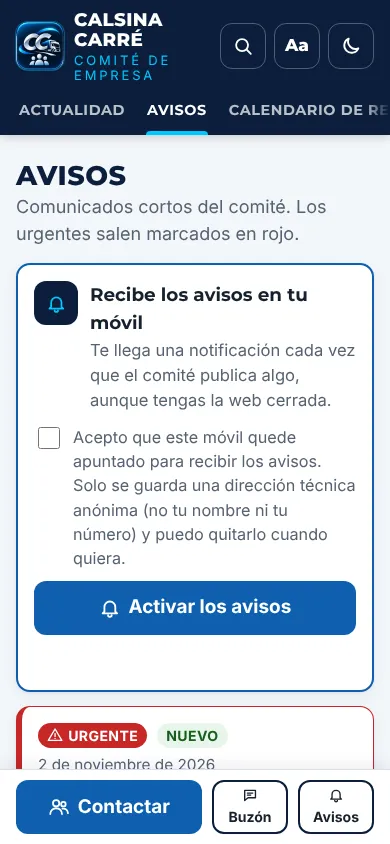
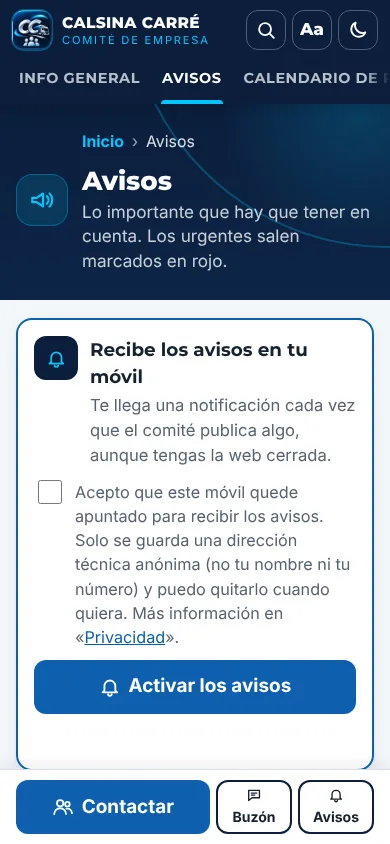
v25: README, CLAUDE.md y guía al día («Lo pendiente» y capturas nuevas)
Claude-Session: https://claude.ai/code/session_011SdsLKzTmFSpwPz2orkjvZ

diff --git a/guia.html b/guia.html
@@ -9,8 +9,8 @@
 <title>Guía del panel · Comité Calsina Carré</title>
 <meta name="theme-color" content="#0B1E3C">
 <link rel="icon" href="img/favicon-32.png" sizes="32x32" type="image/png">
-<link rel="stylesheet" href="fuentes.css?v=24">
-<link rel="stylesheet" href="styles.css?v=24">
+<link rel="stylesheet" href="fuentes.css?v=25">
+<link rel="stylesheet" href="styles.css?v=25">
 <style>
   body { padding-bottom: 40px; }
   .guia { max-width: 820px; margin: 0 auto; padding: 8px 16px 40px; }
@@ -77,7 +77,7 @@
 
   <section id="g-inicio">
     <h2><span class="num">2</span>La pantalla de Inicio</h2>
-    <p>Es lo primero que ves. Arriba, botones grandes con lo que más se hace: publicar un aviso, añadir una reunión, subir un acta… Debajo: las reuniones de los próximos 14 días, los avisos programados, cuántos móviles tienen los avisos activados y lo último que has publicado (tócalo para cambiarlo).</p>
+    <p>Es lo primero que ves. Arriba del todo, la línea <b>«Lo pendiente»</b> te dice lo que pide atención: mensajes del buzón sin leer, reuniones que ya pasaron y no tienen acta, avisos que se publican solos hoy y la reunión de mañana. Tócalo y vas directo. Si no hay nada, pone «Está todo al día». Debajo, botones grandes con lo que más se hace: publicar un aviso, añadir una reunión, subir un acta… Debajo: las reuniones de los próximos 14 días, los avisos programados, cuántos móviles tienen los avisos activados y lo último que has publicado (tócalo para cambiarlo).</p>
     <ul>
       <li><b>En el ordenador</b>, el menú está a la izquierda.</li>
       <li><b>En el móvil</b>, el menú está abajo (Inicio, Avisos, Reuniones, Actas y <b>Más</b> para el resto), y el botón azul <b>«+ Nuevo»</b> sirve para publicar.</li>

diff --git a/CLAUDE.md b/CLAUDE.md
@@ -9,7 +9,7 @@ La gestiona desde el panel el padre de Lorena (usuario GitHub `mariancracana77-S
 
 - Web: https://mariancracana77-ssccoo.github.io/Comite-calsina-carre/ (GitHub Pages desde `main`, raíz)
 - Panel: `admin.html` (email + contraseña de Supabase)
-- Versión actual: **24**
+- Versión actual: **25**
 - **Nombre** (lo pidieron Lorena y su padre el 9/11/2026, al volver a la cuenta de siempre): se ve «Calsina Carré» en títulos, cabecera, pie, portada (también en el camión), manifest y cartel, como en la v20. Desde la v23 el camión de la portada va **sin** nombre (se veía borroso; lo pidió Lorena el 9/11/2026): imágenes de antes de la petición n.º 7. No volver a ponerle texto a la imagen. La v21 sin nombres quedó solo en local (rama `limpio`).
 
 ## Reglas (las mismas que en CCOO)
@@ -81,6 +81,7 @@ El padre pidió mostrar lo que tiene la empresa (camión, toro, transpaleta, dis
 - `pruebas/`: `mock-supabase.js` (datos de prueba en memoria; `localStorage prueba-sesion = 1` entra al panel; ganchos `window.__PRE`, `__TARDA`, `__FALLA`, `__PUSH`), `humo.cjs` (puerto `PUERTO`, 8790), `panel.cjs` (8794) y `sw.cjs` (service worker sobre una copia, 8795). Con varios agentes a la vez, cada uno con su puerto.
 - **v23, revisión a fondo (tanda 3, 10/11/2026)**. Web: `diaMadrid`, `sinAcentos`, `textoHTML(t, {enlaces:false})` en comun.js; `R.abrePlegable` y «Actualizado el…» (`.actualizado`) en render.js; app.js pinta primero `comite-copia` y luego la red (`ESPERA_DATOS` 12 s, banda de red lenta, «Reintentar»), enlaces a cosas borradas abren la lista con `.aviso-falta`, anclas `#preguntas`/`#pregunta-N`, petición n.º 10 en `preparaPush`; sw.js: lo versionado/`img`/`fuentes`/`lib` sale de caché, lo demás a la red con 4 s; **OJO: `lib/supabase.js` no lleva `?v=`: al actualizarlo, cambiarle el nombre o ponerle `?v=`**; licencia en `lib/LICENCIA-supabase-js.txt`. Panel: `bloqueaPie`/`conBoton` (sin doble toque), `noCambio`/`motivoNoCambio`/`sesionCaducada` (nunca un «hecho» falso; `update`/`delete` con `.select("id")`), `haySinGuardar`/`beforeunload`/`popstate`, borrador `comite-adm-borrador-<tabla>-<id|nuevo>`, «Deshacer» (`avisa(txt, mal, ["Deshacer", fn])`, `enPapelera`, `deshacerCambio`), `PLANTILLAS` (texto entre corchetes; no deja publicar si queda `[…]`), `limpiaFoto` (canvas: sin EXIF/GPS, 2000 px), `TIPO_EXT` (contentType por extensión; el cierre 3 de Supabase debe usar la misma lista), «Borrar para siempre» en la Papelera (necesita la política de borrado en `papelera`; sin ella, el panel dice que no se ha podido), `.hola-dato.pendiente` (no usar la clase `aviso` en el panel: choca con `.aviso::after` de styles.css), «Nuevo» oculto donde no se crea nada. Lo de GUSTO de la auditoría visual (scratchpad de «Comité», `visual/propuesta.md`): Lorena eligió el 10/11/2026 lo de la v24; el resto (Inicio del panel, accesos en 2 columnas, etc.) no se hace.
 - **v24 (lo eligió Lorena el 10/11/2026, auditoría visual)**: portada del móvil con el bloque azul más bajo, los dos botones («Ver los avisos» y «Buzón anónimo») y lo urgente justo debajo, antes de los accesos: `#urgente-movil` en `index.html` (app.js pinta el mismo aviso en `#urgente` y `#urgente-movil`; el CSS enseña `#urgente-movil` por debajo de 760 px y `#urgente` en la columna de la derecha por encima; vacío = sin hueco). Editor de avisos: `urgente` y `destacar_dia` con `grupo: "importancia"` → recuadro `fieldset.grupo-campos` «¿Cómo de importante es?» (`GRUPOS_CAMPOS`/`camposHTML` en admin.js; opción `explica` en los campos «si»); se guardan igual. Listas del panel: `.cab-seccion .titulo-vista` sin mayúsculas, explicación `#ayuda-lista.plegada` (2 líneas) con botón «Cómo funciona» (`data-mas-info`, solo si no cabe) y en avisos `R.senal` pequeña (`.mini-senal`, sin luz). Esquinas: `--r-s` 8, `--r-m` 12, `--r-l` 16 (`--radio` = `--r-l`). `R.reunion`: fecha y título en `.reunion-cab`, el resto a todo el ancho. En oscuro, `.etq.rojo` y `.etq.nuevo` con fondo al 18 %. El Inicio del panel no se tocó (lo dijo Lorena).
+- **v25 (lo pidió Lorena el 10/11/2026: ideas de mejora, «mientras se vea lo del camión y carretilla, mejóralo y ya»)**: todo lo del PC va en `@media (min-width: 1000px)` y con `.web` (clase del `<body>` de `index.html`; el panel lleva `.panel` y no cambia); `esPC` en app.js para lo que se pinta distinto. PC: portada tipo periódico sin iconos decorativos (`#v-actualidad .ico` oculto; la señal de los avisos sí), bloque azul con el camión y la carretilla en grande y sin botones, `#portada-lead` (aviso urgente o destacado hoy; si no, el último del mes) a lo ancho, anuncios en 2 columnas con «Leer más»/«Compartir» como enlaces de texto, `#agenda` «Próximas reuniones» en la columna derecha (`#proxima`, `#urgente`, `.accesos`, `.contacto-card`, `.hero-btns`, `.barra-fija` y `.legal-nav` ocultos en el PC), buscador escrito `#cab-busca` (en el PC no sale la lupa), actas y documentos en tabla (`tablaHTML`/`filaTabla`, fila de detalle con la tarjeta de render.js que se abre con «Ver»; `abreFila` en los enlaces directos; orden por fecha; `#buscar-docs` solo PC), banda `.banda-contacto` (buzón + miembros; se esconde la mitad del apartado en el que estás con `body[data-vista]`), pie corto con mapa y el correo (`.solo-movil`/`.solo-pc`; secciones propias en `#pie-secciones`). Regla: en el PC, fuera del menú y de la miga, ningún enlace se repite en la misma pantalla (lo mira humo.cjs). Todas las medidas: miga de pan `ponMiga`/`migaHTML` (`nav.miga` en cada `.cab-apartado`; en secciones, `#seccion-miga`), avisos urgentes (`urgenteAhora`: destacado hoy o urgente de 14 días) arriba y los demás en `.avisos-normales` compacta con la fecha delante, barra de color por tipo (`--barra` en `.tarjeta.aviso/.reunion/.acta`, rayas en `.documento`), botones de 48 px en la web, oscuro más profundo (`--fondo #08142a`, `--tarjeta #0f2038`, borde celeste suave) y sin `.senal-brillo` en el triángulo en oscuro. Móvil: nada cambia de sitio; `#reunion-arriba` (la próxima reunión arriba del calendario, por debajo de 900 px). Panel: línea `#lo-pendiente` arriba del Inicio (buzón sin leer, reuniones de los últimos 60 días sin acta de esa fecha, avisos programados para hoy, reunión de mañana); el resto del Inicio igual. **Pendiente**: «Caduca el…» de los avisos y «Avisos pasados» (necesita una columna nueva en Supabase: lo decide Lorena).
 
 ## Al publicar una versión nueva
 Cambiar el número en: `?v=N` de los HTML, `VERSION_WEB` en `comun.js` y `VERSION` en `sw.js`. Añadir línea en «Versiones» del README. Pasar antes `pruebas/humo.cjs`, `pruebas/panel.cjs` y `pruebas/sw.cjs` (en verde) y repasar la lista del vault «Comité/Guías/Lista antes de publicar».

diff --git a/README.md b/README.md
@@ -99,6 +99,7 @@ NODE_PATH=$(npm root -g) node pruebas/sw.cjs
 - **v17**: calendario con botón «Mes / Año entero» (12 meses en pequeño; al tocar un mes se abre). Festivos laborales oficiales de Cataluña de 2026 y 2027 sacados del BOE (BOE-A-2025-21667 y BOE-A-2026-21254); los de España con la bandera española. Reuniones con la empresa en azul y las del comité en verde (petición n.º 6 del padre). También: panel del padre más fácil (lo pidió Lorena): sus peticiones en dos bloques, «Lo tuyo» (Te toca a ti / Esperando) arriba y «Confirmado por Lorena» debajo; preguntas de Claude con botones y «Otra cosa»; «Que lo siga Lorena», «Quitar de mi lista» y «No me gusta, quitarlo»; menos texto, buscador, negritas y fotos grandes en el chat. En la portada, el nombre «Comité de empresa · (nombre de la empresa)» se ve mejor.
 - **v23**: el nombre del camión de la portada se quita otra vez porque se veía borroso (lo pidió Lorena el 9/11/2026; «Calsina Carré» sigue en la cabecera, el título y los textos); «Avisar a Lorena» del panel dice «solo emergencias» y pregunta antes de avisar (fallo en la web o cambio que haga falta ya). Revisión a fondo (tanda 3, 10/11/2026): **web** — carga primero la copia guardada y avisa si la red va lenta (12 s) o no hay conexión, «Actualizado el…» en avisos y actas, «Escribir al comité (email)» en el pie, botones de 44 px, la portada ya no salta al cargar, pestañas en dos filas en el PC, enlaces viejos avisan de que ya no existe, textos legales y del buzón nuevos, el service worker no se queda colgado, los avisos al móvil ya no piden activarse cada vez (petición n.º 10); **panel** — no publica dos veces con un doble toque, nunca dice «hecho» sin guardar (avisa si la sesión ha caducado y conserva lo escrito), pregunta antes de salir sin guardar, borrador guardado solo, «Deshacer», plantillas de aviso, convocatoria y acta, «Ver cómo quedará en la web» en el móvil, fotos sin GPS, «Borrar para siempre» en la Papelera, guía al día.
 - **v24**: mejoras de aspecto que eligió Lorena el 10/11/2026 (auditoría visual): en el móvil, el bloque azul de la portada es más bajo y lo urgente (aviso urgente o «Destacado hoy», con su señal y las rayas) sale justo debajo de «Buzón anónimo», antes de los accesos (en el PC sigue a la derecha); en el editor de avisos, «Urgente» y «Destacar en la portada el día» van juntos en el recuadro «¿Cómo de importante es?»; en las listas del panel, título como en la web, explicación plegada con «Cómo funciona» y señal pequeña en cada aviso; esquinas en 3 medidas, tarjetas de reunión con el texto a todo el ancho y etiquetas más suaves en modo oscuro. El Inicio del panel no cambia.
+- **v25**: ideas de mejora que aprobó Lorena el 10/11/2026. En el PC (1000 px o más): portada como un periódico, sin iconos decorativos (bloque de arriba con el camión y la carretilla en grande, el aviso importante a lo ancho con titular y entradilla, anuncios en 2 columnas con «Leer más» y «Compartir» en texto y agenda «Próximas reuniones» con el día en grande), buscador escrito en la cabecera, actas y documentos en tabla (Fecha · Título · Tipo · «Ver» / «Descargar») con buscador, banda del buzón y el contacto antes del pie, mapa de la web y pie corto con el correo, y cada enlace en un solo sitio. En todas las medidas: miga de pan («Inicio › Actas › …») y títulos grandes en las páginas interiores, avisos urgentes arriba y los demás en lista compacta con la fecha, tarjetas con una barra de color según el tipo, botones de 48 px y modo oscuro con más profundidad (sin la manchita gris de la señal de peligro). En el móvil no se mueve nada; la próxima reunión sale también arriba del calendario. Panel: línea «Lo pendiente» arriba del Inicio. Pendiente: «Caduca el…» de los avisos (necesita una columna nueva en Supabase).
 - **v22**: revisión profesional (arreglos seguros): «Ir al contenido» ya no lleva a la portada; la dirección de la web sale sola de donde esté publicada (lista de lo que hay que cambiar en «Si cambia la dirección de la web»); barra de abajo sin botones cortados a 320 px con letra muy grande; más contraste en modo oscuro y contorno de foco visible; visor de PDF que dibuja las páginas al acercarse y se mueve con el teclado; el panel no se deja meter dentro de otra web; página 404 propia; caché sin conexión más fiable (espera a la red como mucho 4 s); imagen al compartir más ligera, logo pequeño, `favicon.ico` y `robots.txt`; «Borrar mis datos» también quita los avisos al móvil; subidas del panel limitadas a fotos, PDF y documentos de oficina; aviso al descargar la copia; textos de privacidad por defecto más exactos y nota en el buzón (no es el canal de denuncias de la Ley 2/2023). Además, vuelta a la cuenta y dirección de siempre con el nombre de Calsina Carré y el nombre en el camión de la portada (lo pidieron Lorena y su padre el 9/11/2026).
 - **v21**: versión sin nombres de empresa para la cuenta provisional (7/11/2026); no llegó a publicarse aquí: se quedó en local (rama `limpio`).
 - **v20**: petición n.º 8 del padre: en el calendario, «Año entero» cabe en una sola pantalla (3 columnas en el móvil, 4 en tableta y 6 en el PC, días más bajos; también con 320 px y letra grande).
